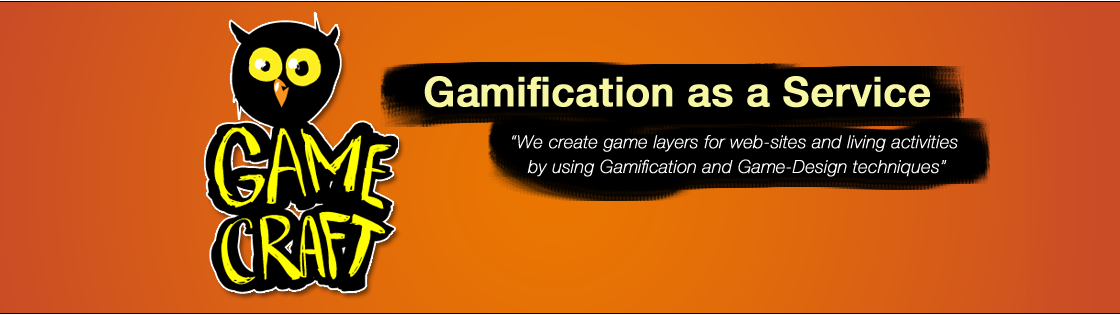
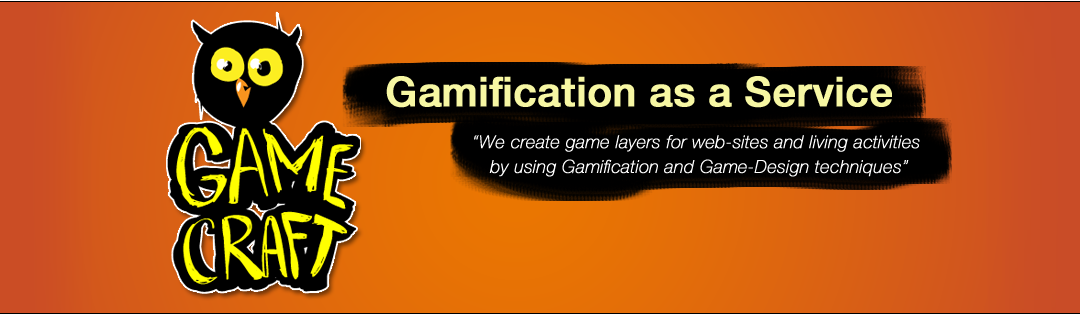
Fix bug 0001: Zoomed header and footer bug

Changed region(s): [[0.1528, 0.0571, 0.8861, 0.9429]]

diff --git a/styles/main.css b/styles/main.css
@@ -56,7 +56,7 @@ table {
 }
 
 #header_img {
-	width: 1120px;
+	width: 1080px;
 	margin: 0 auto;
 }
 
@@ -86,6 +86,7 @@ table {
 	float: right;
 	font-size: 16px;
 	margin-top: 16px;
+	margin-right: 30px;
 }
 
 #navigation a:link { 
@@ -243,15 +244,25 @@ h2, h3 {
 
 
 #footer-container {
+	/*
     
+    background-color: #212121;
+     padding-top: 10px;
+	*/
+	background-image:url('../assets/footer-repeat.png');
+	background-repeat: repeat-x;
 	color: #FFFFFF;
 	text-align: center;
-	background-color: #212121;
 	line-height: 1.5;
+}
+
+#footer_img {
+	background-image:url('../assets/footer.png');
+    margin: 0 auto;
+    width: 1080px;
     height: 60px;
     padding-top: 10px;
 }
-
 
 #content_about {
 	background-image:url('../assets/background_about.png');

diff --git a/index.html b/index.html
@@ -30,7 +30,7 @@
 	<div id='header_container'>
 		<header>
 			<div id='header_img'>
-			<img width='1120px' height='315px' src='assets/header2.png' />
+			<img width='1080px' height='315px' src='assets/header2.png' />
 			</div>
 		</header>
 	</div>
@@ -96,11 +96,14 @@
 		</div>
 	</div>
 	<div id="footer-container">
+			
 		<footer>
-		<a href="http://www.game-craft.com/" title="GameCraft">Game Craft</a>
+			<div id='footer_img'>
+				<a href="http://www.game-craft.com/" title="GameCraft">Game Craft</a>
 			&nbsp|&nbsp
 			<a href="http://www.game-craft.com/about/" title="About GameCraft">About</a> <br/>
 		Copyright 2011 by Game-Craft.
+			</div>
 		</footer>
 	</div>
 	<script type="text/javascript">
